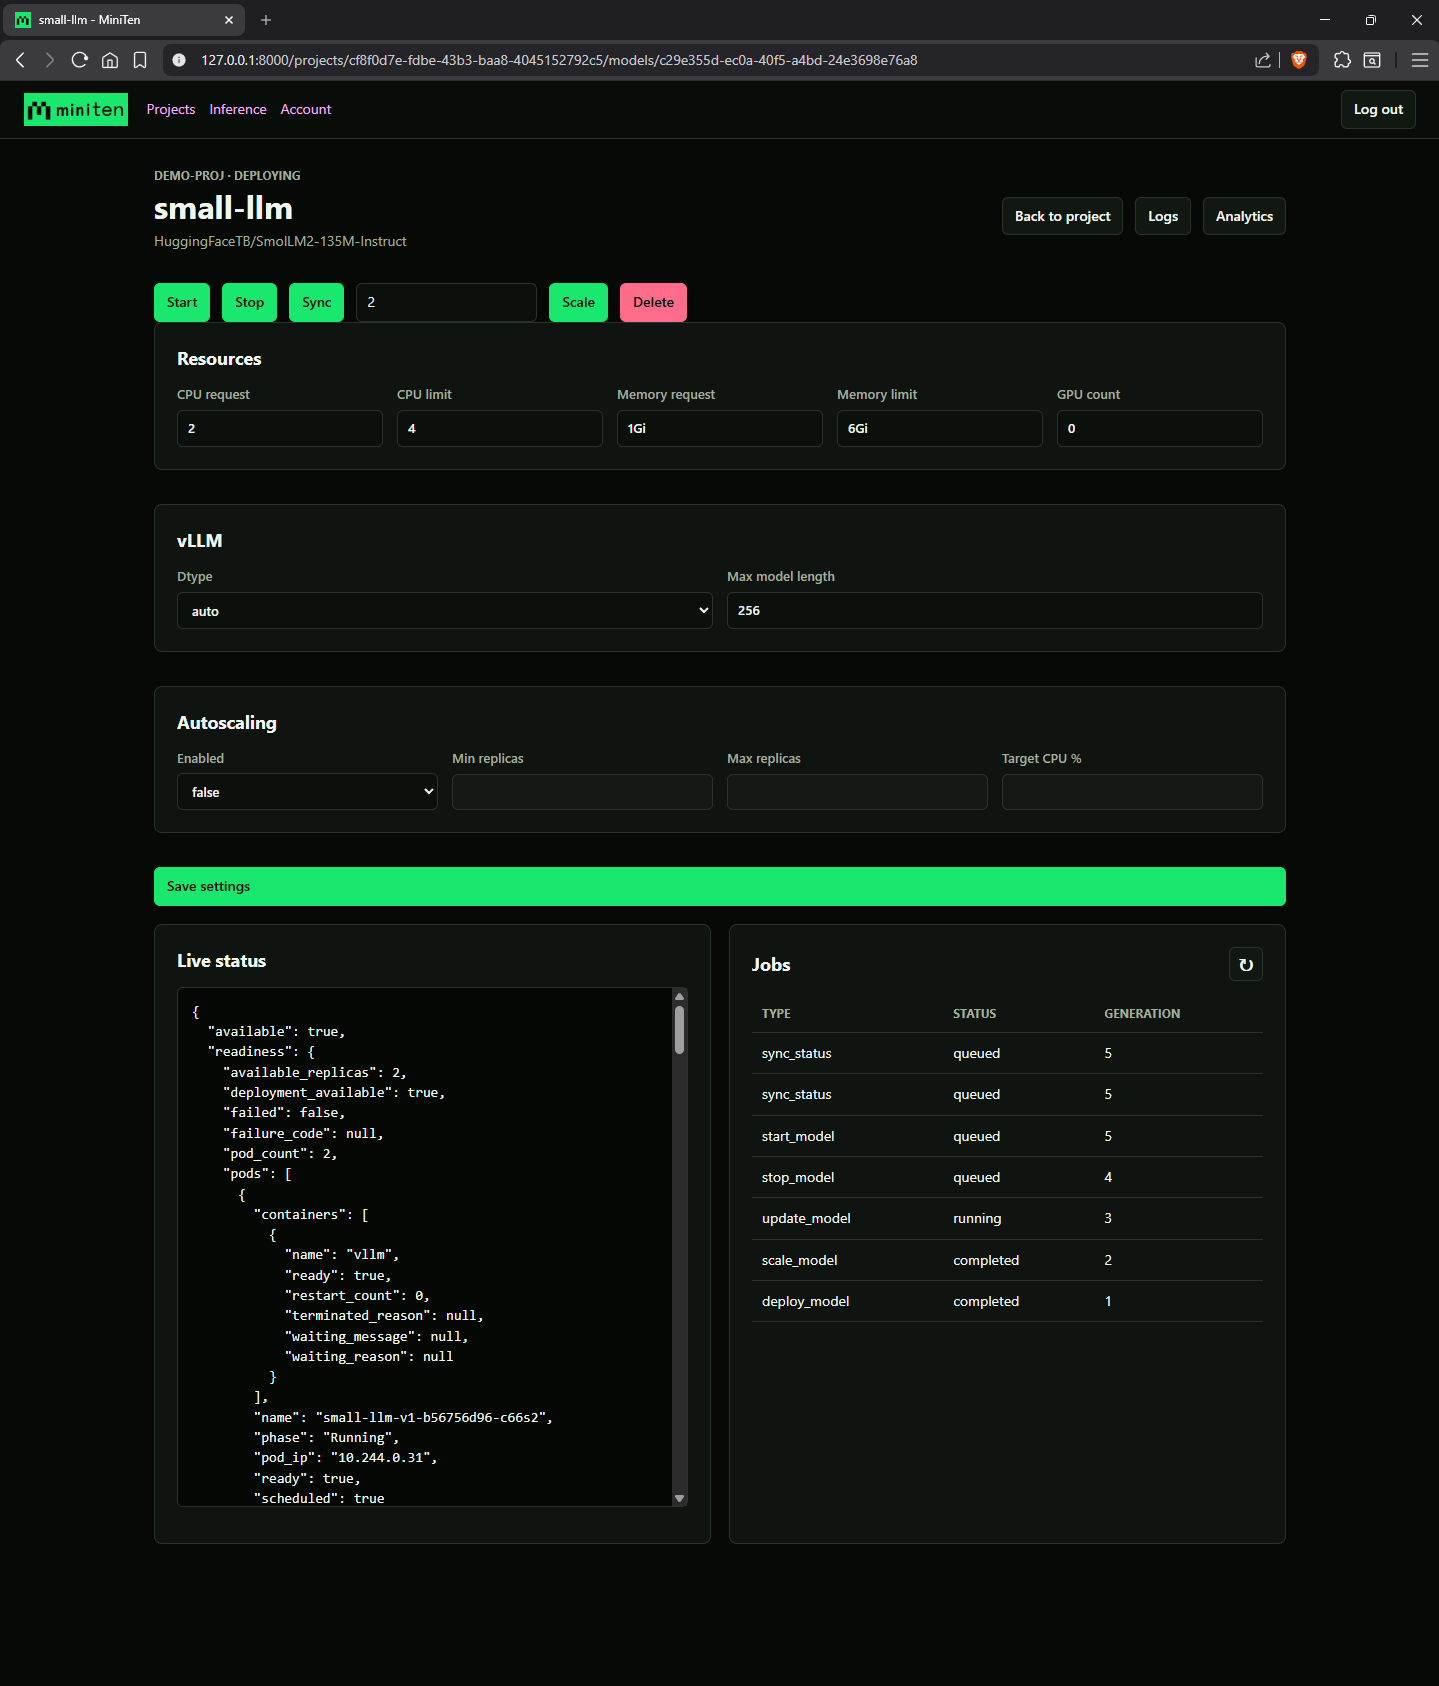
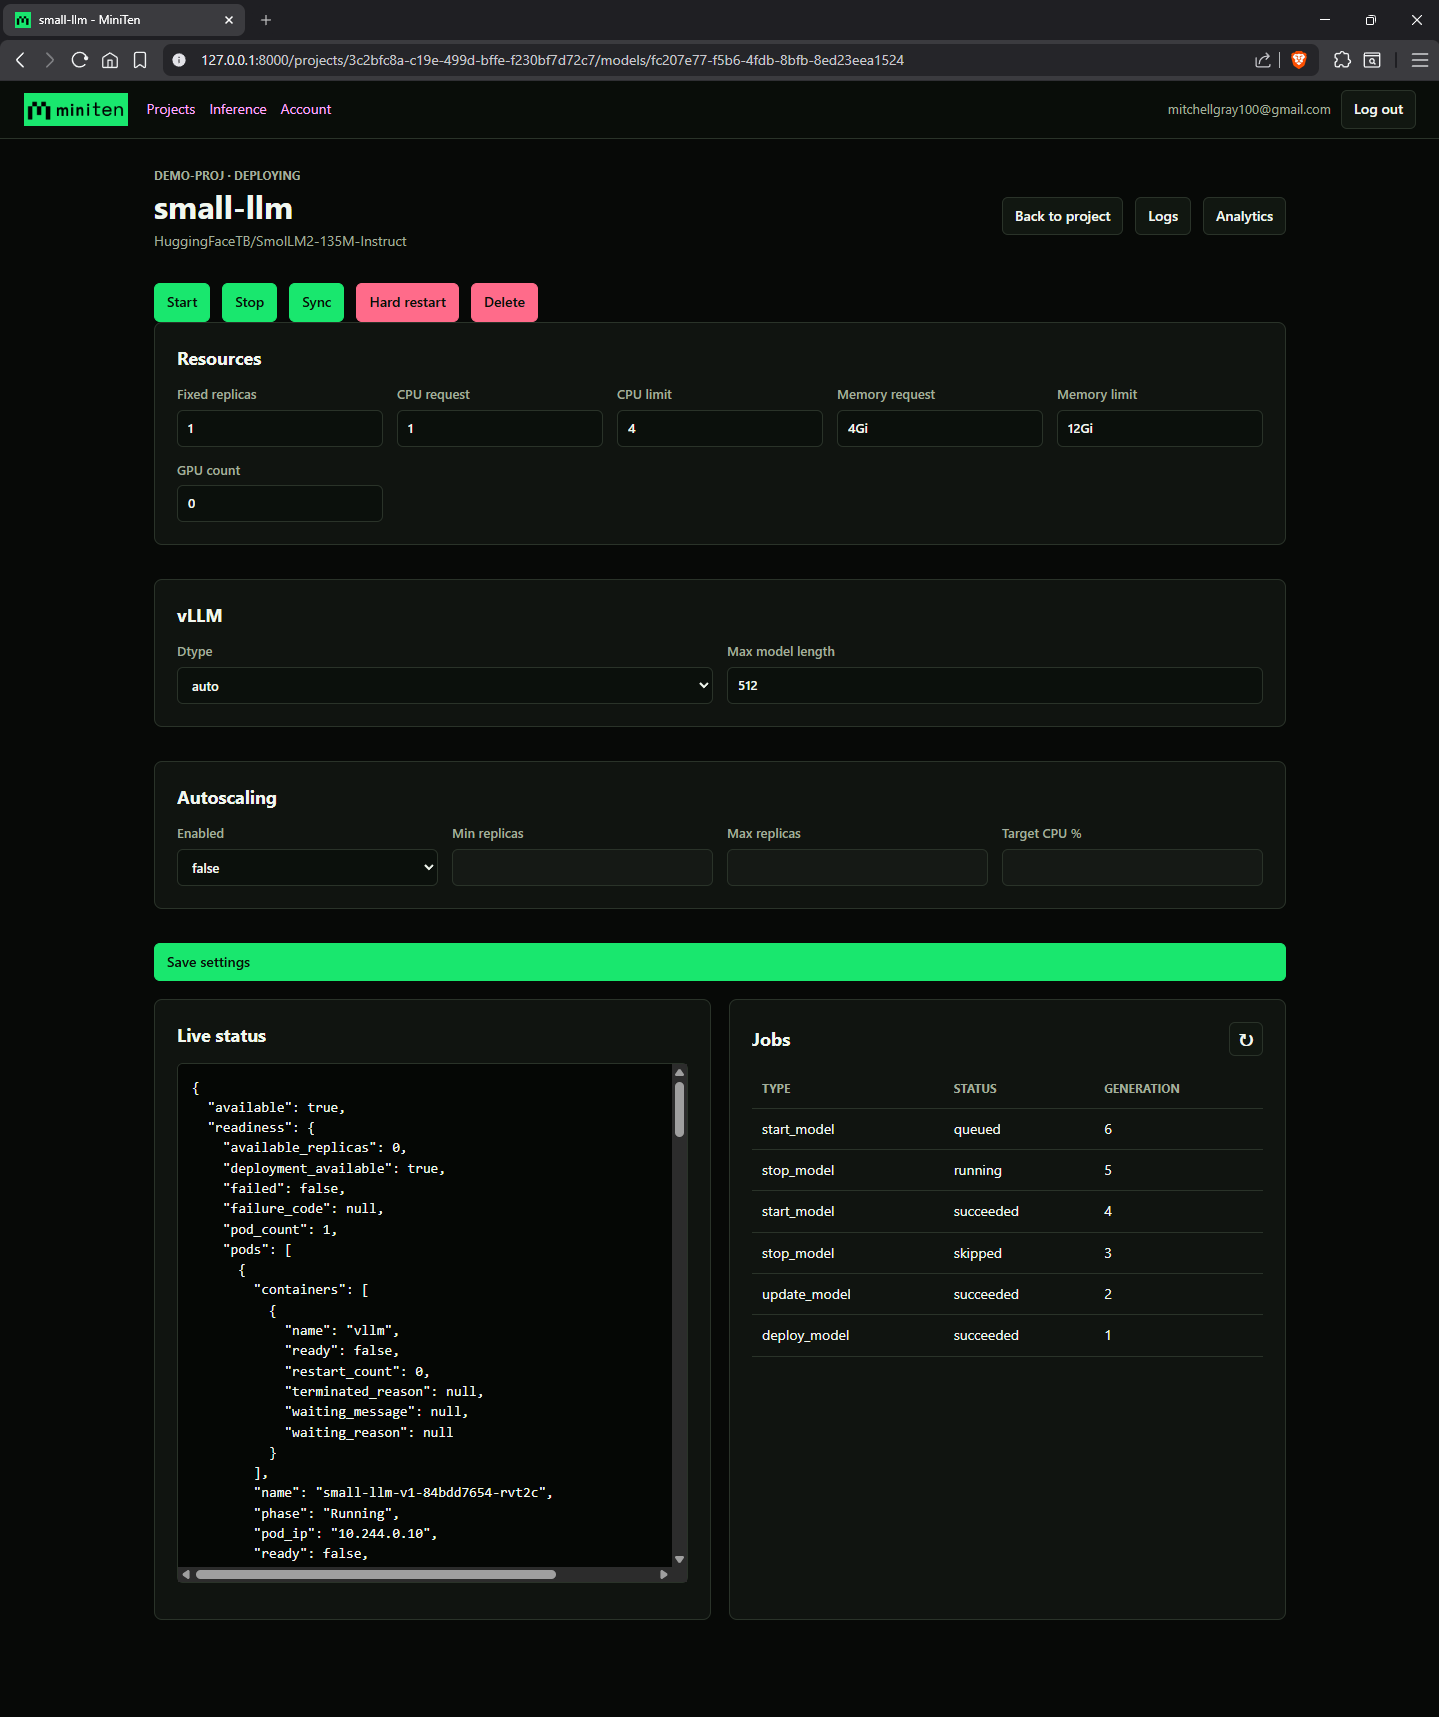
Updated README images with newest UI

diff --git a/README.md b/README.md
@@ -332,6 +332,16 @@ not mixed into the project list. Deleting an account deletes its account API
 keys and also deletes projects where that account is the only owner; assign
 another owner first if a project should remain after the account is removed.
 
+### Logs
+
+![MiniTen logs page](docs/images/logsPage.png)
+
+The Logs page shows recent Kubernetes pod logs for a model deployment. It is
+used when a deployment is loading, restarting, or failing and you need the raw
+vLLM startup/runtime output. The page supports selecting a refresh interval and
+links back to the model deployment page so debugging can move between live
+status, jobs, and logs.
+
 ## CLI
 
 The `miniten` CLI uses the same HTTP API as the dashboard. Control-plane
